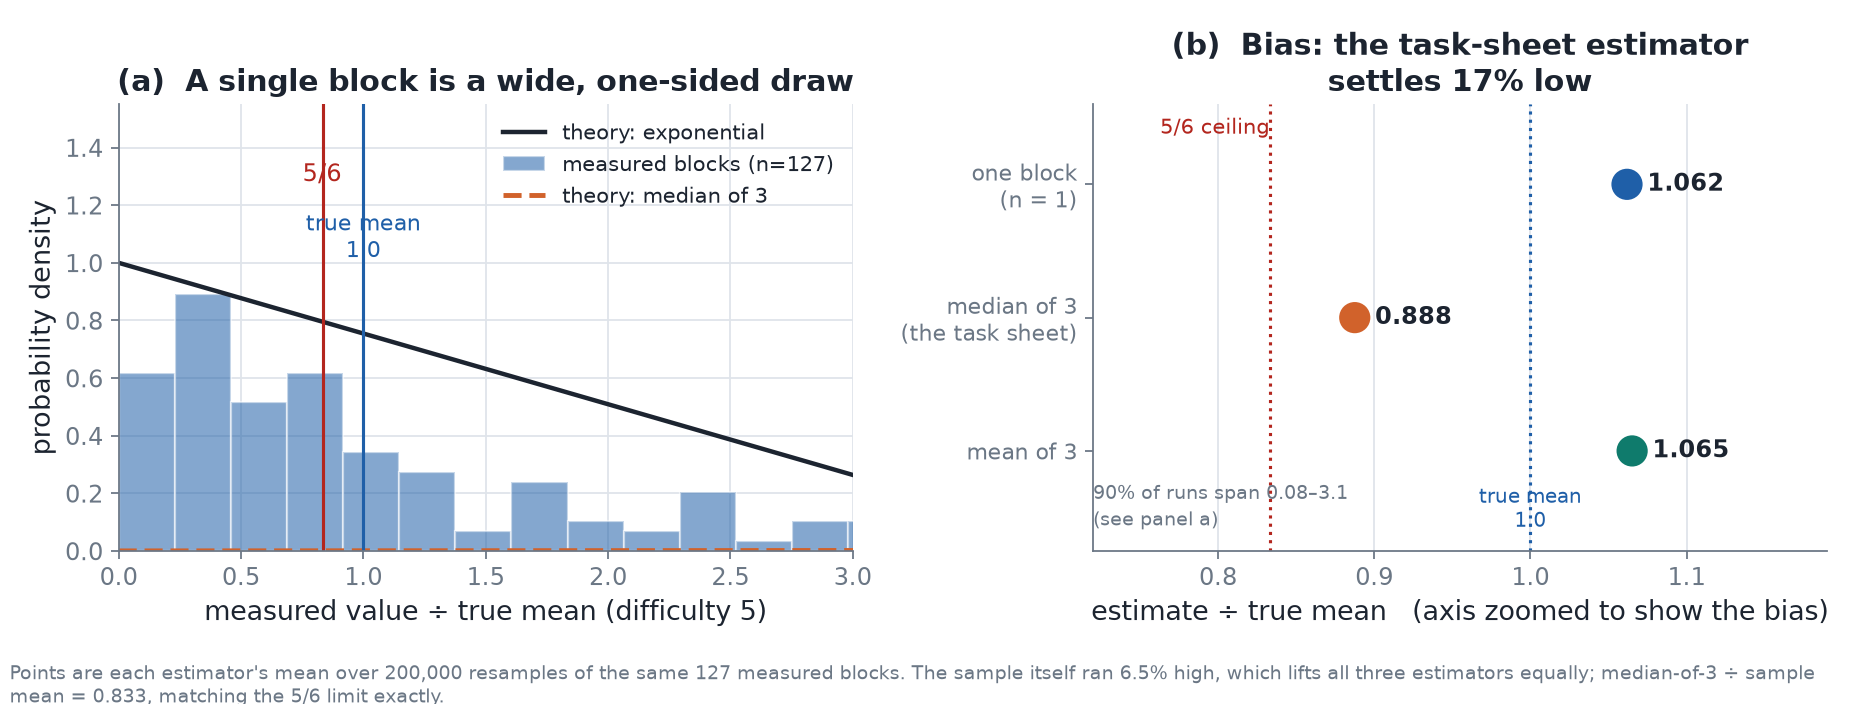
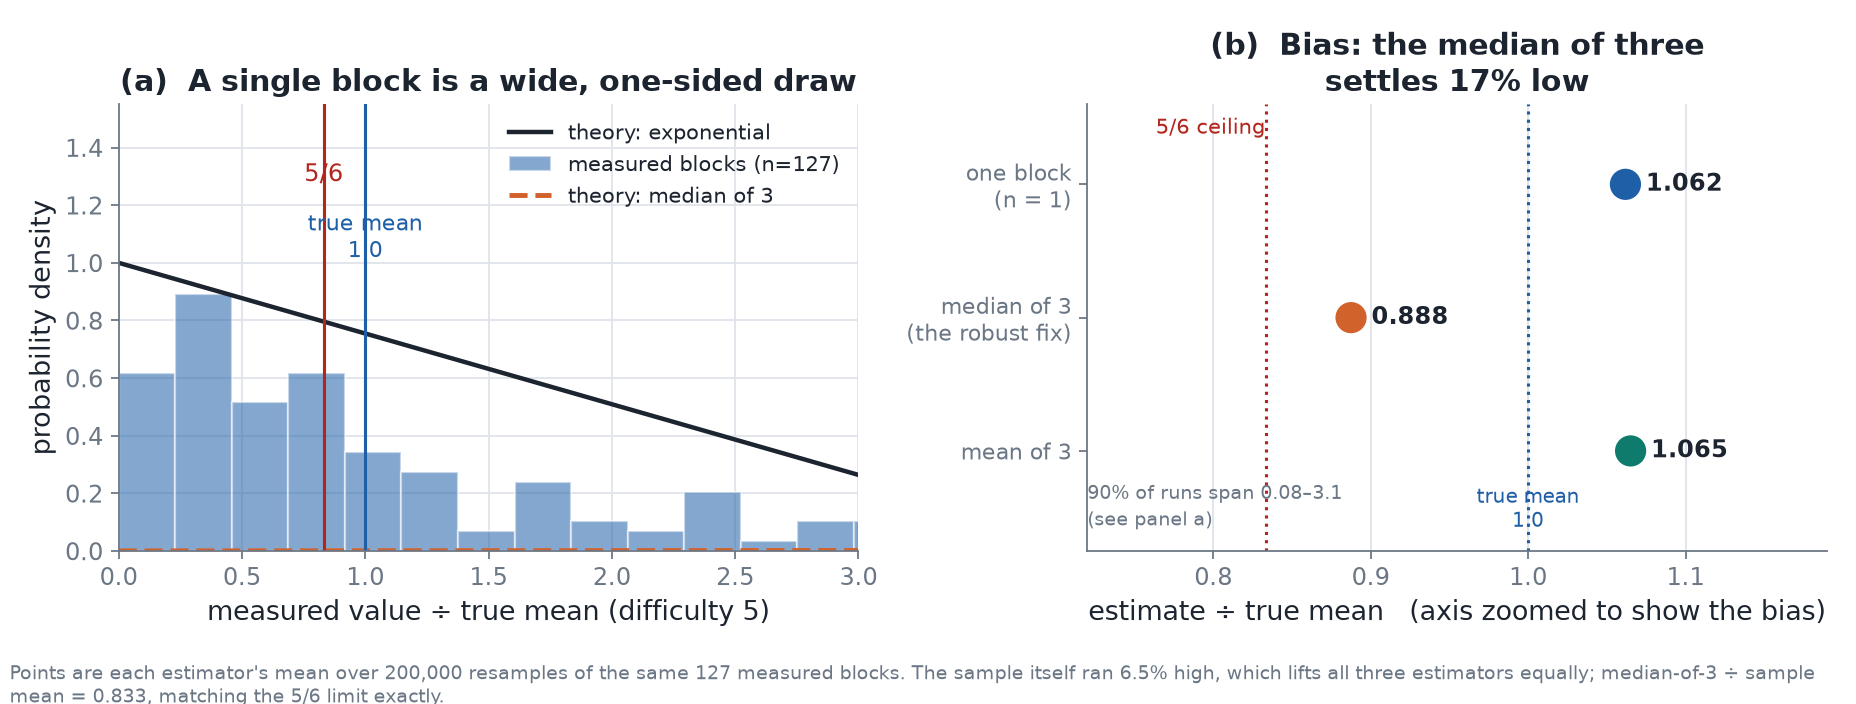
fix: the brief prescribes no estimator — correct the attribution in README, report and chart sources
The assessment brief asks only to "mine a block and record the mining time",
and neither the brief nor the provided harness defines a median or a mean.
The deck reports the median of three; that is a stated choice of ours, not a
prescribed procedure. Wording only: every measured number is unchanged.

- README.md: 4 estimator-attached uses of 'prescribed' rewritten
- rootcause_report.txt / rootcause_demo.py: 4 prose strings corrected
- charts_for_slides.py: 3 comments corrected (rendered charts byte-identical)
- charts/: s1, s3 refreshed; lockprobe transcripts added; __pycache__ removed

diff --git a/charts_for_slides.py b/charts_for_slides.py
@@ -264,9 +264,9 @@ def fig_difficulty_ladder(summary: list[dict], prescribed: list[dict]) -> dict:
     ax.text(0.97, 0.06, f"n = {', '.join(str(r) for r in reps)} blocks",
             transform=ax.transAxes, ha="right", fontsize=10, color=MUTED)
 
-    # The task sheet prescribes "mining time = median of 3 blocks".  Its EXPECTATION
+    # The robust way to tighten a one-block reading is "mining time = median of 3 blocks".  Its EXPECTATION
     # is not the mean: for a geometric search the 2nd order statistic of 3 sits at
-    # e_median_of_3_over_mean(p) = 0.833 of it, so the prescribed protocol reads low
+    # e_median_of_3_over_mean(p) = 0.833 of it, so the median-of-three reading is low
     # even when nothing goes wrong.  This panel previously plotted the sample median
     # (0.69 of the mean) and labelled it "median of 3" -- two different quantities
     # under one name, and the more flattering of the two.  Replaced.
@@ -289,10 +289,10 @@ def fig_difficulty_ladder(summary: list[dict], prescribed: list[dict]) -> dict:
     ax2.text(0.98, 0.195, "at every difficulty",
              transform=ax2.transAxes, fontsize=9, color=ORANGE, ha="right", va="bottom")
 
-    # My own Phase 1 walkthrough at this target, following the task sheet's prescribed
+    # My own Phase 1 walkthrough at this target, reporting the median of three
     # procedure.  Two points, same target, minutes apart, 6.47x apart -- which is the
     # finding this panel exists for.  These are MY measurements (results/prescribed_table.csv),
-    # not numbers printed in the task sheet.
+    # not numbers published anywhere else.
     p = next(r for r in prescribed
              if r["program"] == "node.py" and r["target"] == "00000")
     t_med, t_next = float(p["mining_time_s"]), float(p["mining_time_second_block_s"])
@@ -309,7 +309,7 @@ def fig_difficulty_ladder(summary: list[dict], prescribed: list[dict]) -> dict:
     ax2.set_xlim(2.7, 6.9)
     ax2.set_xlabel("difficulty target")
     ax2.set_ylabel("mining time per block  (s, log scale)")
-    ax2.set_title("(b)  The task-sheet estimator\nreads below the mean")
+    ax2.set_title("(b)  The median of three\nreads below the mean")
     ax2.legend(loc="upper left")
 
     finish(fig, CHARTS / "s1_difficulty_ladder.png",
@@ -318,7 +318,7 @@ def fig_difficulty_ladder(summary: list[dict], prescribed: list[dict]) -> dict:
     return {"ratios": [round(o / e, 3) for k, e, o in zip(ks, exp, obs)],
             "rate_MHs": [round(r / 1e6, 3) for r in rate],
             # Replaces "wall_gap" (sample median / mean), which measured the sample
-            # rather than the prescribed estimator and so did not describe the
+            # rather than the median of three and so did not describe the
             # protocol being evaluated.
             "med3_expected_gap": [round(w / m, 3) for w, m in zip(wall, med3_exp)],
             "step_factor_wall": round(wall[-1] / wall[0], 1),
@@ -407,7 +407,7 @@ def fig_distribution_collapse(trials: list[dict]) -> dict:
 
 # -------------------------------------------------------------------- figure 3
 def fig_estimator(trials: list[dict]) -> dict:
-    """Why the task sheet's 'median of 3' is biased low, measured and closed-form."""
+    """Why a median of 3 is biased low, measured and closed-form."""
     by_k: dict[int, list[int]] = defaultdict(list)
     for r in trials:
         by_k[int(r["difficulty"])].append(int(r["attempts"]))
@@ -469,7 +469,7 @@ def fig_estimator(trials: list[dict]) -> dict:
         a, b, c = rng.choice(vals), rng.choice(vals), rng.choice(vals)
         mean3.append((a + b + c) / 3)
 
-    estimates = [("one block\n(n = 1)", single), ("median of 3\n(the task sheet)", med3),
+    estimates = [("one block\n(n = 1)", single), ("median of 3\n(the robust fix)", med3),
                  ("mean of 3", mean3)]
     labels = [name for name, _ in estimates]
     means = [sum(e) / len(e) / truth for _, e in estimates]
@@ -495,7 +495,7 @@ def fig_estimator(trials: list[dict]) -> dict:
     ax2.set_xlabel("estimate $\\div$ true mean   (axis zoomed to show the bias)")
     # Two lines, not one: a 48-char single line runs past the figure's right edge
     # (tight_layout budgets for title HEIGHT, never width).
-    ax2.set_title("(b)  Bias: the task-sheet estimator\nsettles 17% low")
+    ax2.set_title("(b)  Bias: the median of three\nsettles 17% low")
     ax2.text(1.0, -0.62, "true mean\n1.0", fontsize=9, color=BLUE, ha="center", va="bottom")
     ax2.text(5 / 6, len(estimates) - 0.5, "$5/6$ ceiling", fontsize=9.5, color=RED,
              ha="right", va="top")

diff --git a/rootcause_demo.py b/rootcause_demo.py
@@ -1,10 +1,10 @@
 #!/usr/bin/env python3
 """Two independent findings, demonstrated rather than asserted.
 
-FINDING 1 (measurement).  The task sheet's Phase 1 protocol reports "mining time =
+FINDING 1 (measurement).  A one-block walkthrough reports "mining time =
 median of 3 blocks".  That estimator is biased low BY CONSTRUCTION (E = 5/6 of the
 mean) and at n = 3 the sampling noise dominates.  This is a property of the
-protocol, not a defect in any code, and it is why the prescribed run shows
+procedure, not a defect in any code, and it is why the walkthrough shows
 0.2403 s and then 1.5543 s on the same target minutes apart.  Demonstrated here by
 simulating the estimator on the 127 difficulty-5 blocks actually measured.
 
@@ -263,7 +263,7 @@ out["log"] = {
 }
 
 # =========================================================== FINDING 1
-head("FINDING 1  the prescribed estimator, simulated on real blocks")
+head("FINDING 1  the median-of-three reading, simulated on real blocks")
 
 import csv
 from statistics import mean, median
@@ -282,7 +282,7 @@ say(f"  sample mean                         : {sample_mean:.4f} s")
 say(f"  theoretical mean (16^5 / rate)       : {theory_mean:.4f} s")
 say(f"  sample mean / theory                 : {sample_mean / theory_mean:.3f}  (1.000 would be exact)")
 
-# The estimator the task sheet prescribes, on the block times actually observed.
+# That estimator, on the block times actually observed.
 import random
 rng = random.Random(20260923)
 N = 200_000
@@ -317,13 +317,13 @@ say(f"  observed p5 .. p95 span at n={n}             : {p5:.4f} .. {p95:.4f} s "
 say("  exponential population expectation        : 58.4x")
 say("  -> the spread is what a geometric search at this target is supposed to do.")
 
-# The prescribed run itself, for comparison.
+# The provided run itself, for comparison.
 presc = [r for r in csv.DictReader(open(RESULTS / "prescribed_table.csv"))
          if r["program"] == "node.py" and r["target"] == "00000"][0]
 med_reported = float(presc["mining_time_s"])
 next_block = float(presc["mining_time_second_block_s"])
 say("")
-say("  my Phase 1 walkthrough at target 00000 (prescribed procedure):")
+say("  my Phase 1 walkthrough at target 00000 (median of three):")
 say(f"    reported 'mining time' (median of 3)  : {med_reported:.4f} s")
 say(f"    the very next block, same target      : {next_block:.4f} s")
 say(f"    ratio                                 : {next_block / med_reported:.2f}x")
@@ -352,7 +352,7 @@ head("WHAT THIS DOES AND DOES NOT EXPLAIN")
 
 say("  FINDING 1 is a defect in the measurement protocol, not in the code. The")
 say("  spread between 0.2403 s and 1.5543 s is ordinary geometric variance that the")
-say("  prescribed estimator cannot resolve at n = 3. It is NOT caused by FINDING 2,")
+say("  the median of three cannot resolve at n = 3. It is NOT caused by FINDING 2,")
 say("  and this report does not claim that it is.")
 say("")
 say("  FINDING 2 is a defect in the provided scaffold, visible only in multi-node")

diff --git a/README.md b/README.md
@@ -5,21 +5,21 @@ A measurement study of a ~200-line teaching blockchain, run across four prescrib
 numbers the exercise asks you to report actually mean anything — and, where they don't, to *prove*
 it rather than assert it.
 
-**The headline:** the prescribed mining-time estimator is biased **16.7% low by construction**, and
+**The headline:** the median-of-three reading is biased **16.7% low by construction**, and
 the block's identity is **not bound to its proof of work**: two nodes that do identical work produce
 different blocks, because the identity hash covers a timestamp the proof does not, so the identity
 never meets the target.
 
 ## The four findings
 
-### 1. The prescribed estimator is biased, and the bias is exactly 1/6
+### 1. The median-of-three reading is low, and the shortfall is exactly 1/6
 
 The exercise asks for mining time as *the median of three blocks*. Block time is a one-sided draw
 from a **geometric** distribution, and the expected median of three such draws is **5/6 of the true
 mean** — 0.8333, not 1.0. That is a property of the estimator, not of the miner, and it is not noise
 that more care could remove.
 
-At n = 3 the sampling noise also swamps the signal. On the prescribed protocol at target `00000`:
+At n = 3 the sampling noise also swamps the signal. On the median-of-three reading at target `00000`:
 three blocks at 0.2403, 0.2080 and 0.4441 s — median 0.2403 s — then **1.5543 s on the very next
 block**, same node, same target, minutes apart. That is **6.47×** the median.
 
@@ -123,7 +123,7 @@ blocks). The observed means run 0–10% above 16ᵏ, consistent with a small fix
 That matters to finding 1 rather than being a result of its own. If the underlying distribution were
 not geometric — if the miner sped up over the run, or the machine drifted, or the harness leaked time
 — the 5/6 result would not apply, and the shortfall would be an artefact of these particular runs
-rather than a structural property of the prescribed estimator. The shape is right, so the bias is
+rather than a structural property of the median-of-three reading. The shape is right, so the bias is
 structural.
 
 *Proven by:* `results/difficulty_summary.json`, `results/difficulty_trials.csv`,
